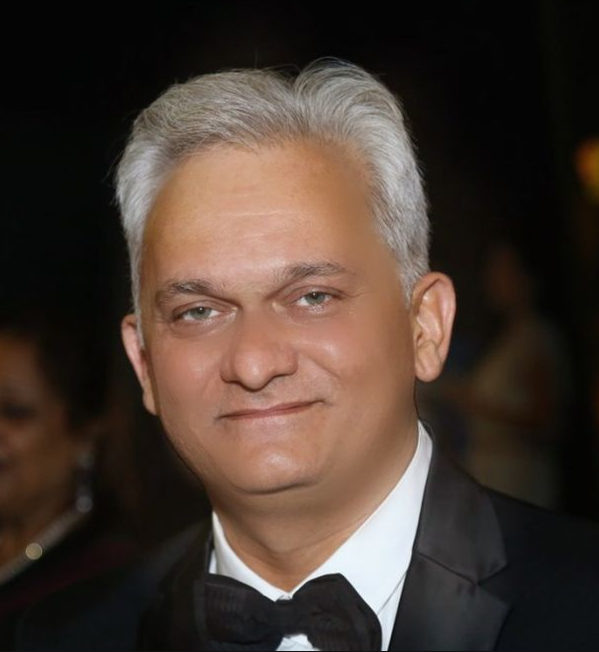
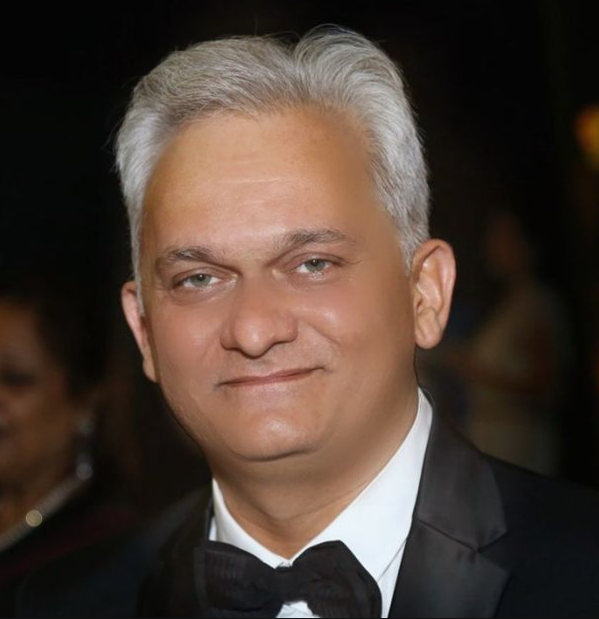
demo

diff --git a/about.html b/about.html
@@ -513,7 +513,7 @@
 						<div class="our-team d-flex flex-column text-center">
 							<!-- Avatar -->
 							<div>
-								<img style="height: 100%; width: 50%; border-radius: 50%; transform: scale(1); transition: all 0.9s ease 0s;" src="img/teamimage - Copy.png" alt="Avatar">
+								<img style="height: 93%; width: 50%; border-radius: 50%; transform: scale(1); transition: all 0.9s ease 0s;" src="img/teamimage - Copy.png" alt="Avatar">
 							</div>
 							<!-- Team Content -->
 							<div class="team-content">
@@ -549,7 +549,7 @@
 							</div>
 							<!-- Team Content -->
 							<div class="team-content">
-								<h3 class="title mb-1" style="font-size: 1.25rem; font-weight: bold;">Pankaj Samani</h3>
+								<h3 class="title mb-1" style="font-size: 1.25rem; font-weight: bold;    margin-top: 15px;">Pankaj Samani</h3>
 								<!-- <span class="post text-muted mb-3 d-block" style="font-size: 0.9rem;">CO-CEO</span> -->
 	
 								<!-- Contact Details -->
@@ -582,7 +582,7 @@
 							</div>
 							<!-- Team Content -->
 							<div class="team-content">
-								<h3 class="title mb-1" style="font-size: 1.25rem; font-weight: bold;">Ravi Parikh</h3>
+								<h3 class="title mb-1" style="font-size: 1.25rem; font-weight: bold;    margin-top: 15px;">Ravi Parikh</h3>
 								<!-- <span class="post text-muted mb-3 d-block" style="font-size: 0.9rem;">VICE-PRESIDENT</span> -->
 	
 								<!-- Contact Details -->
